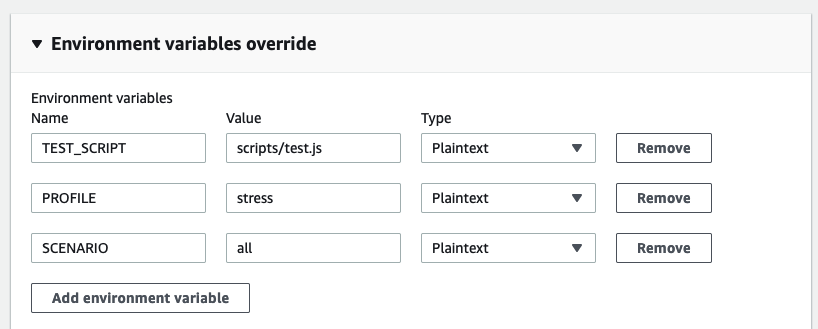
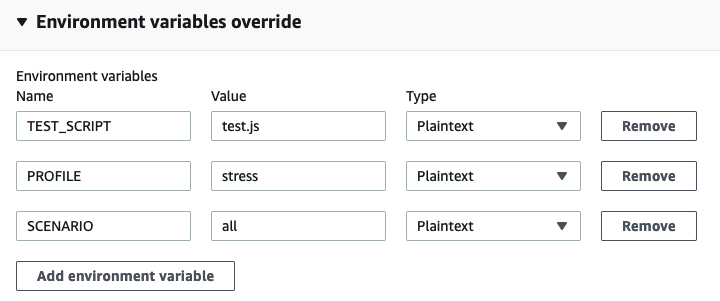
Moving 'scripts' directory definition

diff --git a/deploy/scripts/README.md b/deploy/scripts/README.md
@@ -60,9 +60,9 @@ This unit test also runs when raising pull requests as a [github action](../../.
 
     !['Environment variables override' section](docs/environment-variables-override.png)
 
-    |Environment Variable|Examples|Description|
+    |Environment Variable|Example Values|Description|
     |-|-|-|
-    |`TEST_SCRIPT`|`scripts/devplatform-test.js`</br>`scripts/test-data.js`</br>`scripts/test.js`<sup> [_default_]</sup></br>`scripts/unit-tests.js`|Relative path of test script to use|
+    |`TEST_SCRIPT`|`devplatform-test.js`</br>`test-data.js`</br>`test.js`<sup> [_default_]</sup></br>`unit-tests.js`|Relative path of test script to use, including `.js` extension|
     |`PROFILE`|`smoke`<sup> [_default_]</sup></br>`stress`</br>`load`|Used to select a named load profile described in the test script. Values should match the keys of a [`ProfileList`](src/utils/config/load-profiles.ts#L4) object|
     |`SCENARIOS`|`all`<sup> [_default_]</sup></br>`sign_in`</br>`create_account,sign_in`|Comma seperated list of scenarios to enable. Blank strings or `'all'` will default to enabling all scenarios in the selected load profile. Implementation in [`getScenarios`](src/utils/config/load-profiles.ts#L27-L36) function|
 
